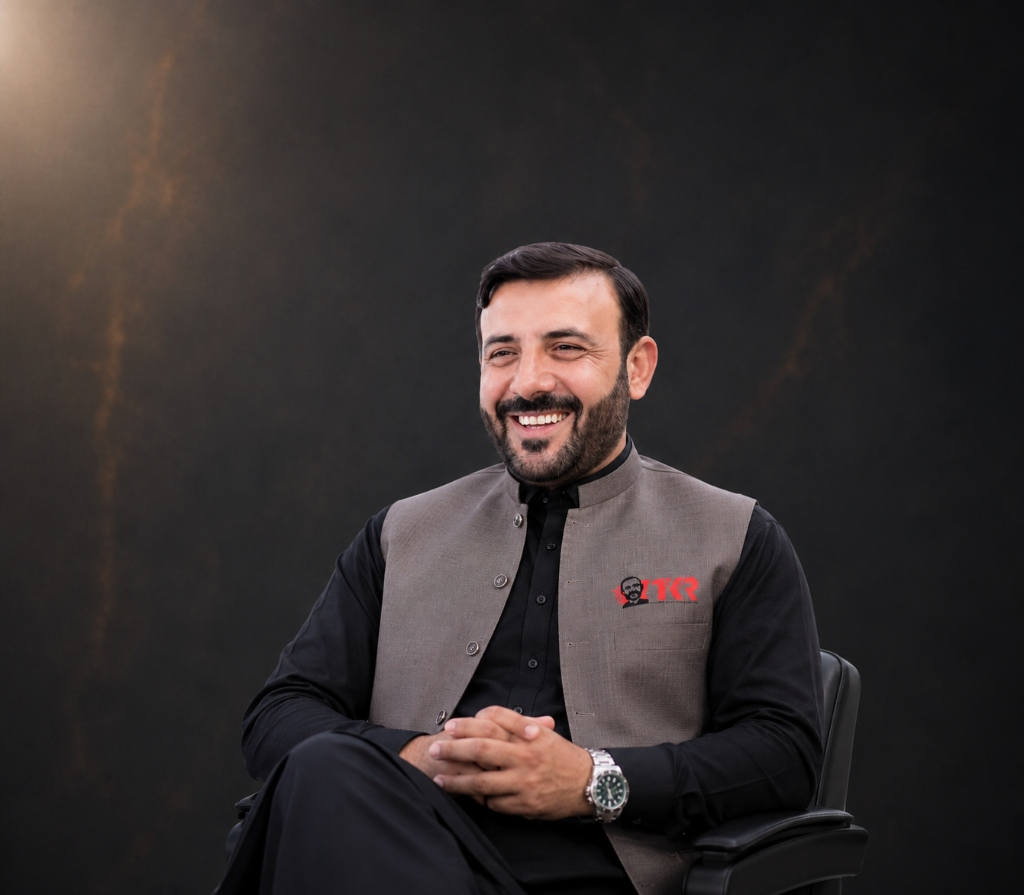
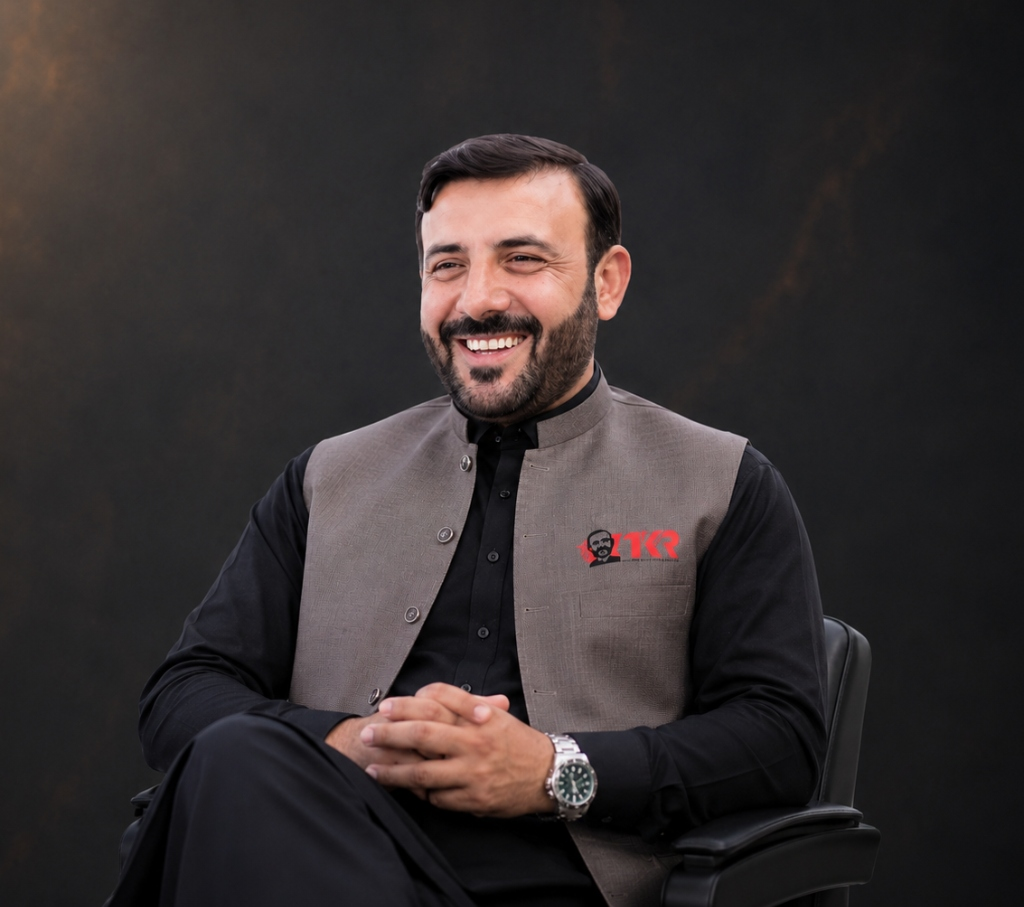
G

diff --git a/index.html b/index.html
@@ -85,7 +85,7 @@
       <div class="hero-image-wrapper premium-image-frame">
         <div class="premium-image-inner">
           <!-- Grayscale portrait of Tahir Khan -->
-          <img src="assets/images/tahir_khan_smiling.jpg?v=1.3" alt="Tahir Khan Portrait" class="hero-image">
+          <img src="assets/images/tahir_khan_smiling.jpg?v=1.5" alt="Tahir Khan Portrait" class="hero-image">
         </div>
       </div>
     </div>